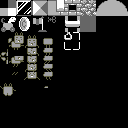
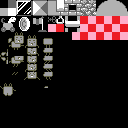
- Improve how Lucifer splits - IMprove start screen

Changed region(s): [[0.5, 0.125, 1.0, 0.4062], [0.375, 0.125, 0.5, 0.25]]

diff --git a/examples/LuciYFer/CHANGELOG.md b/examples/LuciYFer/CHANGELOG.md
@@ -15,10 +15,6 @@
   - Being Lucifer and changing to Luci Y Fer in the air
     - 2nd sprite not affected by gravity
       - Bug or feature?
-  - Fix START state
-    - Fix transition to STORY
-  - Fix transition from STORY to PLAY
-    - Only when starting at START
   - Fix transition from L2 to L3
 - Graphs
   - Add stamina bar
@@ -49,6 +45,11 @@
 
 # Changes
 
+## [25.10.2023]
+- Fix START state
+    - Fix transition to STORY
+- Fix transition from STORY to PLAY
+    - Only when starting at START
 ## [24.10.2023]
 - Lucifer can split ⬅⬇➡
 - Improve start screen
